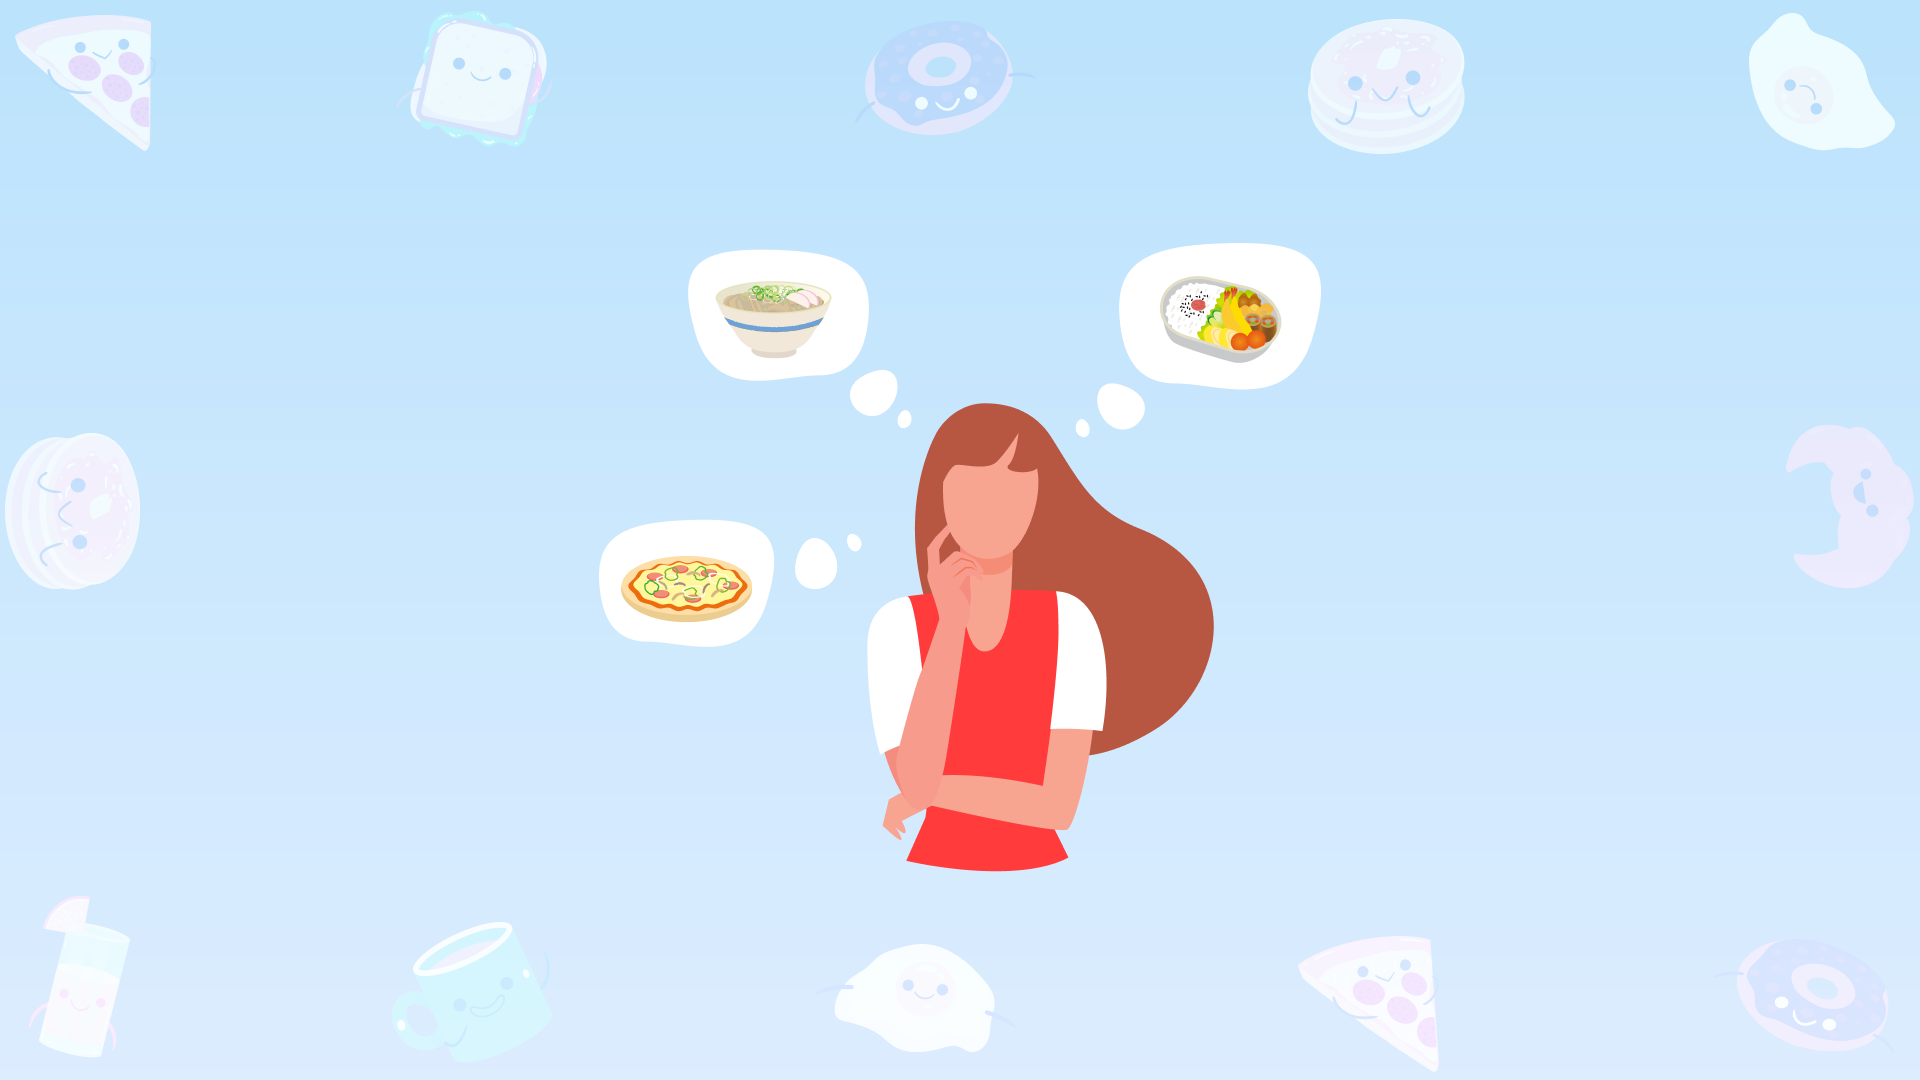
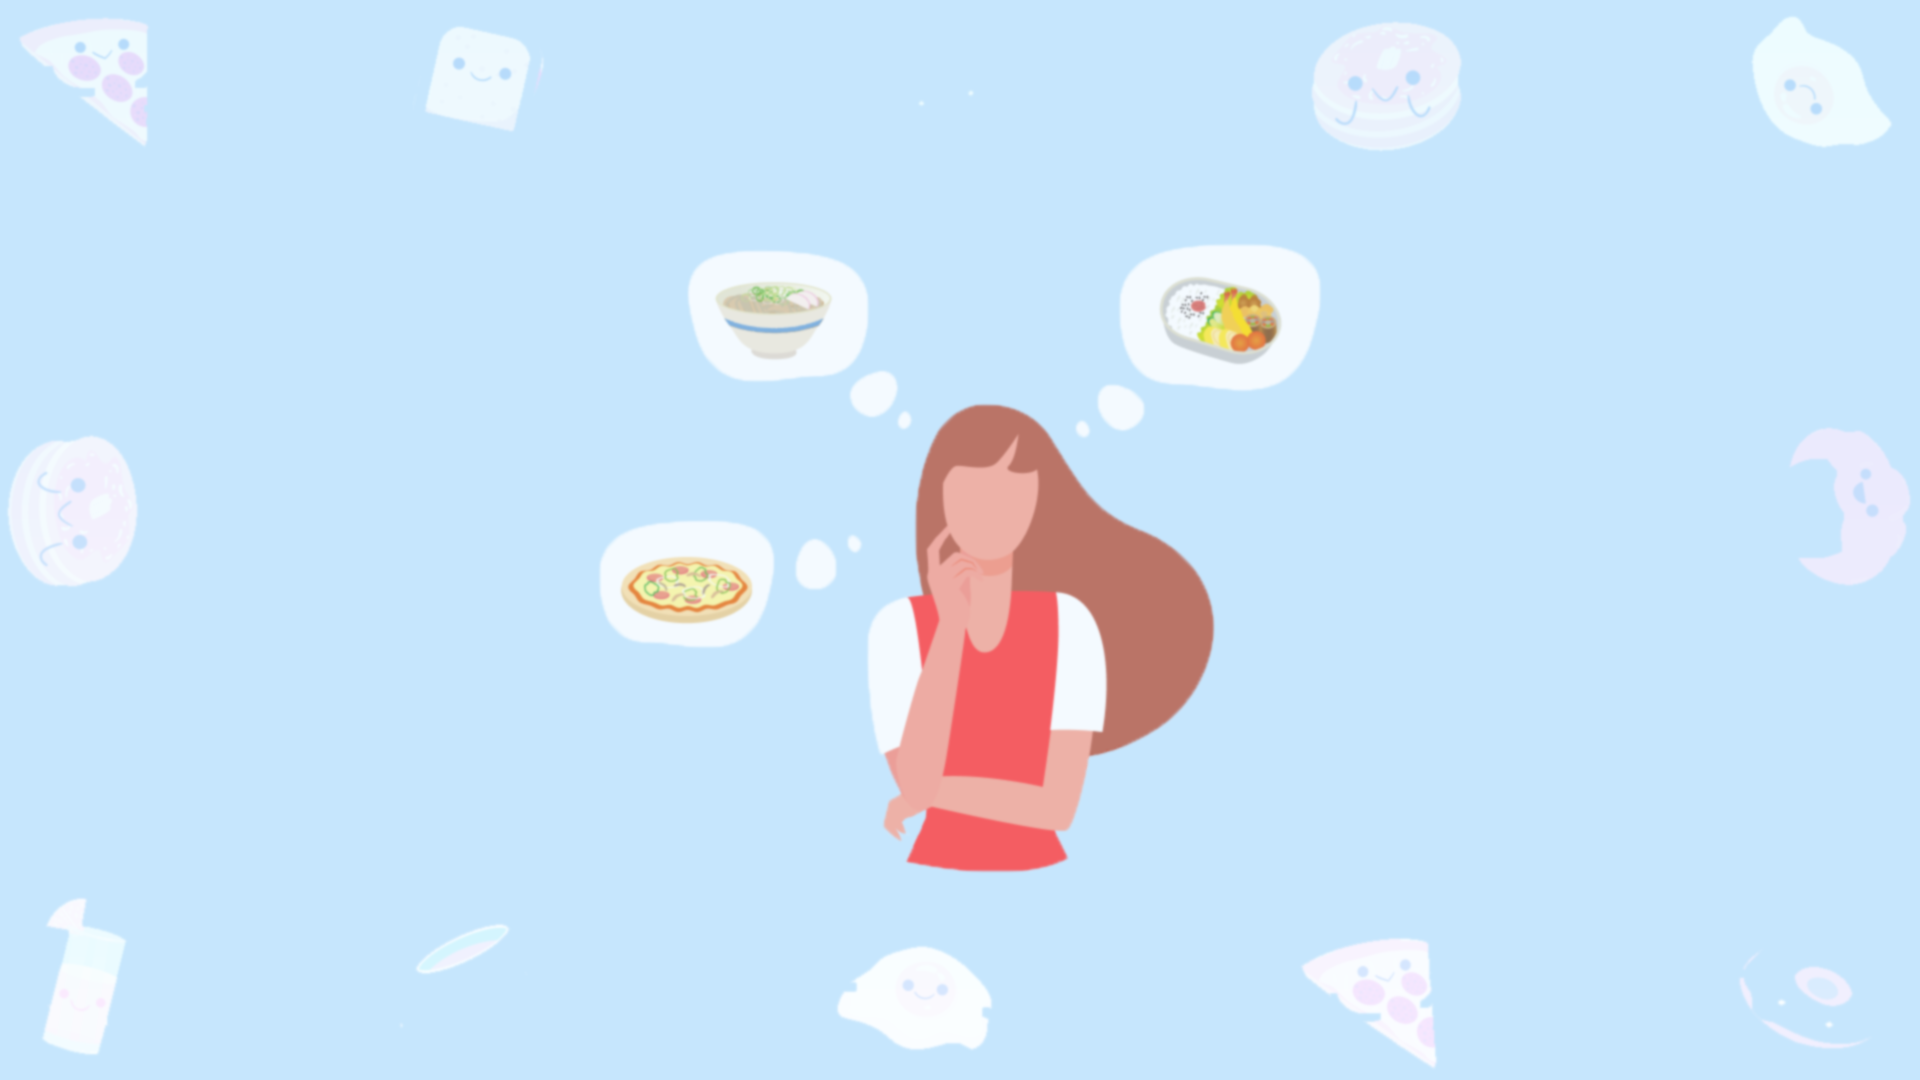
修改圖片和文案

diff --git a/index.html b/index.html
@@ -111,14 +111,15 @@
         <div class="banner2">
             <h2 data-aos="fade-up" data-aos-duration="1000">互動篩選</h2>
             <h3 data-aos="fade-up" data-aos-delay="500" data-aos-duration="1000">
-                原料包括麵粉、牛奶、牛油、沙糖、奶油、巧克力、生果、果仁等，輔助以各種食品添加劑，<br>
-                並以焗爐高溫烘製為主，或以特定的工藝製成。</h3>
+                透過遊戲互動的方式，用小遊戲的方式讓電腦幫您選做出選擇<br>
+                會不定時更新各種遊戲，使決策的過程中更添加趣味性。
+                </h3>
         </div>
         <div class="banner3">
-            <h2 data-aos="fade-up" data-aos-duration="1000">牛排</h2>
+            <h2 data-aos="fade-up" data-aos-duration="1000">美食取得途徑</h2>
             <h3 data-aos="fade-up" data-aos-delay="500" data-aos-duration="1000">
-                清末小說中已出現「牛排」、「豬排」等西菜菜名，可能是因形似上海「大排」（豬丁骨），故名「排」。<br>
-                而英語中表示牛排的「steak」一詞則源自古諾爾斯語詞「steik」，後者意即烤牛肉。</h3>
+                做出選擇後，有各種美食取得途徑，可以選擇取得食譜或者訂購外送還可以去餐廳吃<br>
+                如果有充分的時間，可以自己下廚料理，懶得自己動手做，也可以叫外賣，還可以幫您規劃路線，在約朋友去餐廳吃。</h3>
         </div>
     </div>
     <!-- 關於APP -->

diff --git a/style.css b/style.css
@@ -335,10 +335,6 @@ nav #social a img {
   background-size: cover;
 }
 
-#banner .banner1:nth-child(1) {
-  background-position-x: 100px;
-}
-
 #banner .banner1:focus {
   outline: none;
 }
@@ -455,10 +451,6 @@ nav #social a img {
           filter: blur(5px);
   z-index: 5;
   background-size: cover;
-}
-
-#banner .banner2:nth-child(1) {
-  background-position-x: 100px;
 }
 
 #banner .banner2:focus {
@@ -579,10 +571,6 @@ nav #social a img {
   background-size: cover;
 }
 
-#banner .banner3:nth-child(1) {
-  background-position-x: 100px;
-}
-
 #banner .banner3:focus {
   outline: none;
 }
@@ -646,6 +634,18 @@ nav #social a img {
     margin: 0 auto;
     line-height: 1.5;
   }
+}
+
+#banner .banner1 {
+  background-position: -100px -50px;
+}
+
+#banner .banner2 {
+  background-position: -120px;
+}
+
+#banner .banner3 {
+  background-position: -200px -220px;
 }
 
 #about {

diff --git a/style.scss b/style.scss
@@ -296,10 +296,6 @@ nav {
                 }
             }
 
-            &:nth-child(1) {
-                background-position-x: 100px;
-            }
-
             &:focus {
                 outline: none;
             }
@@ -355,6 +351,18 @@ nav {
 
             }
         }
+    }
+
+    .banner1 {
+        background-position: -100px -50px;
+    }
+
+    .banner2 {
+        background-position: -120px;
+    }
+
+    .banner3 {
+        background-position: -200px -220px;
     }
 
     // @for $i from 1 through 3{
